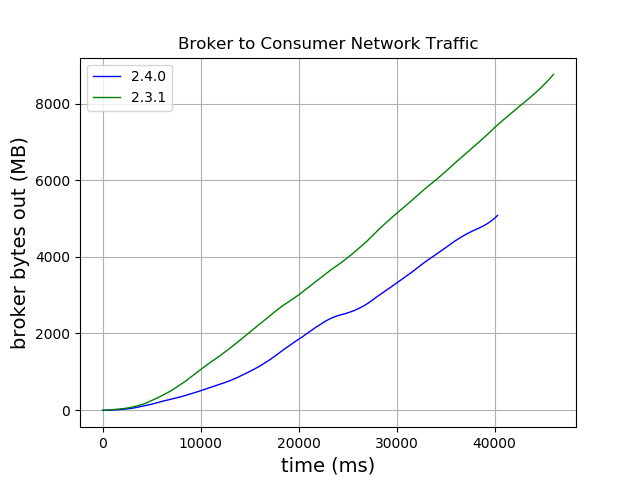
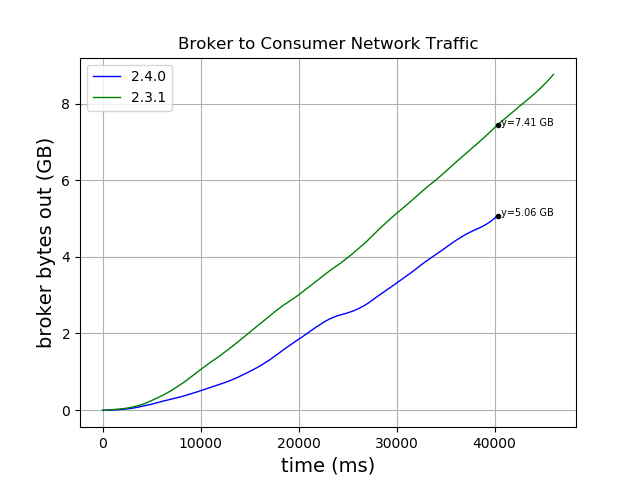
Annotations on charts

diff --git a/charts.py b/charts.py
@@ -1,11 +1,10 @@
 # python API refs
 # --
-# matplotlib.pyplot.plot 	https://matplotlib.org/api/_as_gen/matplotlib.pyplot.plot.html#matplotlib.pyplot.plot
-# pd.read_csv				https://pandas.pydata.org/pandas-docs/stable/reference/api/pandas.read_csv.html?highlight=read_csv#pandas.read_csv
-# pd.Series      			https://pandas.pydata.org/pandas-docs/stable/reference/api/pandas.Series.append.html
-# pd.DataFrame				https://pandas.pydata.org/pandas-docs/stable/reference/frame.html
-
-
+# matplotlib.pyplot.plot 		https://matplotlib.org/api/_as_gen/matplotlib.pyplot.plot.html#matplotlib.pyplot.plot
+# matploglib.pyplot.subplots	https://matplotlib.org/api/_as_gen/matplotlib.pyplot.subplots.html
+# pd.read_csv					https://pandas.pydata.org/pandas-docs/stable/reference/api/pandas.read_csv.html?highlight=read_csv#pandas.read_csv
+# pd.Series      				https://pandas.pydata.org/pandas-docs/stable/reference/api/pandas.Series.append.html
+# pd.DataFrame					https://pandas.pydata.org/pandas-docs/stable/reference/frame.html
 import matplotlib.pyplot as plt
 import pandas as pd
 import numpy as np 
@@ -55,20 +54,31 @@ plt.title('Broker to Consumer Network Traffic')
 
 metric_name = 'broker:kafka.server:type=BrokerTopicMetrics:name=BytesOutPerSec'
 
-y24, y23 = format_series(kafka24[metric_name], kafka23[metric_name])
+y24Raw, y23Raw = (kafka24[metric_name], kafka23[metric_name])
+y24, y23 = format_series(y24Raw, y23Raw)
 
-one_mb = 1000 * 1000
+one_gb = 1000 * 1000 * 1000
 
 # scale bytes to MB
-y24 /= one_mb
-y23 /= one_mb
+y24 /= one_gb
+y23 /= one_gb
 
 # Add x and y lables, and set their font size
 plt.xlabel("time (ms)", fontsize=14)
-plt.ylabel("broker bytes out (MB)", fontsize=14)
+plt.ylabel("broker bytes out (GB)", fontsize=14)
 
 plt.plot(x, y24, **seriesFormatArgs24)
 plt.plot(x, y23, **seriesFormatArgs23)
+
+# Add annotated points for summary
+lastY24Index = len(y24Raw)-1
+xAnnotate, y24Annotate = (x.at[lastY24Index], (y24Raw.at[lastY24Index]/one_gb))
+y23Annotate = y23Raw.at[lastY24Index]/one_gb
+
+plt.annotate(s=" y=" + format(y24Annotate, ".3") + " GB", xy=(xAnnotate, y24Annotate), fontsize=7)
+plt.annotate(s=" y=" + format(y23Annotate, ".3") + " GB", xy=(xAnnotate, y23Annotate), fontsize=7)
+plt.plot(xAnnotate, y24Annotate, marker=".", color="black")
+plt.plot(xAnnotate, y23Annotate+0.03, marker=".", color="black") # fudge y value to be on smoothed line, keep actual annotated value the same
 
 plt.grid()
 plt.legend()
@@ -81,6 +91,7 @@ plt.title('Consumer Record Throughput')
 
 metric_name = 'kafka-consumer:records-consumed-total'
 
+y24Raw, y23Raw = (kafka24[metric_name], kafka23[metric_name])
 y24, y23 = format_series(kafka24[metric_name], kafka23[metric_name])
 
 thousand = 1000
@@ -91,36 +102,20 @@ y23 /= thousand
 
 # Add x and y lables, and set their font size
 plt.xlabel("time (ms)", fontsize=14)
-plt.ylabel("consumed records (x1000)", fontsize=14)
+plt.ylabel("consumed records (1000x)", fontsize=14)
 
 plt.plot(x, y24, **seriesFormatArgs24)
 plt.plot(x, y23, **seriesFormatArgs23)
 
-plt.grid()
-plt.legend()
-plt.savefig("plots/consumer-record-throughput.png")
+# Add annotated points for summary
+lastY24Index = len(y24Raw)-1
+xAnnotate, y24Annotate = (x.at[lastY24Index], (y24Raw.at[lastY24Index]/thousand))
+y23Annotate = y23Raw.at[lastY24Index]/thousand
 
-# Consumer Record Throughput
-
-plt.figure(2)
-plt.title('Consumer Record Throughput')
-
-metric_name = 'kafka-consumer:records-consumed-total'
-
-y24, y23 = format_series(kafka24[metric_name], kafka23[metric_name])
-
-thousand = 1000
-
-# scale thousands of records
-y24 /= thousand
-y23 /= thousand
-
-# Add x and y lables, and set their font size
-plt.xlabel("time (ms)", fontsize=14)
-plt.ylabel("consumed records (x1000)", fontsize=14)
-
-plt.plot(x, y24, **seriesFormatArgs24)
-plt.plot(x, y23, **seriesFormatArgs23)
+plt.annotate(s=" y=" + format(y24Annotate*thousand, ".0f") + " rec", xy=(xAnnotate, y24Annotate), fontsize=7)
+plt.annotate(s=" y=" + format(y23Annotate*thousand, ".0f") + " rec", xy=(xAnnotate, y23Annotate), fontsize=7)
+plt.plot(xAnnotate, y24Annotate-3, marker=".", color="black") # fudge y value to be on smoothed line, keep actual annotated value the same
+plt.plot(xAnnotate, y23Annotate+7, marker=".", color="black") # fudge y value to be on smoothed line, keep actual annotated value the same
 
 plt.grid()
 plt.legend()
@@ -142,6 +137,8 @@ ax_heap.set_title('JVM Heap Memory Usage')
 ax_heap.set_ylabel("bytes used (MB)", fontsize=14)
 
 y24, y23 = format_series(kafka24[metric_jvm_heap_bytes], kafka23[metric_jvm_heap_bytes])
+
+one_mb = 1000 * 1000
 
 # scale bytes to MB
 y24 /= one_mb
@@ -199,10 +196,21 @@ ax_fetch_total.set_title('Fetch Requests')
 ax_fetch_total.set_ylabel("fetch requests", fontsize=14)
 ax_fetch_total.set_xlabel('time (ms)', fontsize=14)
 
-y24, y23 = format_series(kafka24[metric_fetch_total], kafka23[metric_fetch_total])
+y24Raw, y23Raw = (kafka24[metric_fetch_total], kafka23[metric_fetch_total])
+y24, y23 = format_series(y24Raw, y23Raw)
 
 ax_fetch_total.plot(x, y24, **seriesFormatArgs24)
 ax_fetch_total.plot(x, y23, **seriesFormatArgs23)
+
+# Add annotated points for summary
+lastY24Index = len(y24Raw)-1
+xAnnotate, y24Annotate = (x.at[lastY24Index], (y24Raw.at[lastY24Index]))
+y23Annotate = y23Raw.at[lastY24Index]
+
+ax_fetch_total.annotate(s=" y=" + format(y24Annotate, ".0f") + " req", xy=(xAnnotate, y24Annotate), fontsize=7)
+ax_fetch_total.annotate(s=" y=" + format(y23Annotate, ".0f") + " req", xy=(xAnnotate, y23Annotate), fontsize=7)
+ax_fetch_total.plot(xAnnotate, y24Annotate, marker=".", color="black") # fudge y value to be on smoothed line, keep actual annotated value the same
+ax_fetch_total.plot(xAnnotate, y23Annotate, marker=".", color="black") # fudge y value to be on smoothed line, keep actual annotated value the same
 
 ax_fetch_total.grid()
 ax_fetch_total.legend()
@@ -215,19 +223,19 @@ ax_records_per_fetch_avg.set_xlabel('time (ms)', fontsize=14)
 
 # first n records are NaN
 # remove first NaN records, format the axis, then re-add NaN when plotting
-y24 = kafka24[metric_records_per_fetch_avg]
+y24Raw = kafka24[metric_records_per_fetch_avg]
 
-total_size = len(y24)
-non_nan_size = y24.count()
-y24_head = y24.head(total_size-non_nan_size)
-y24 = y24.tail(non_nan_size)
+total_size = len(y24Raw)
+non_nan_size = y24Raw.count()
+y24_head = y24Raw.head(total_size-non_nan_size)
+y24 = y24Raw.tail(non_nan_size)
 
-y23 = kafka23[metric_records_per_fetch_avg]
+y23Raw = kafka23[metric_records_per_fetch_avg]
 
-total_size = len(y23)
-non_nan_size = y23.count()
-y23_head = y23.head(total_size-non_nan_size)
-y23 = y23.tail(non_nan_size)
+total_size = len(y23Raw)
+non_nan_size = y23Raw.count()
+y23_head = y23Raw.head(total_size-non_nan_size)
+y23 = y23Raw.tail(non_nan_size)
 
 y24, y23 = format_series(y24, y23)
 
@@ -239,6 +247,16 @@ y24 = y24.head(len(y24)-(len(y24)-len(y23)))
 
 ax_records_per_fetch_avg.plot(x, y24, **seriesFormatArgs24)
 ax_records_per_fetch_avg.plot(x, y23, **seriesFormatArgs23)
+
+# Add annotated points for summary
+lastY24Index = len(y24Raw)-1
+xAnnotate, y24Annotate = (x.at[lastY24Index], (y24Raw.at[lastY24Index]))
+y23Annotate = y23Raw.at[lastY24Index]
+
+ax_records_per_fetch_avg.annotate(s=" y=" + format(y24Annotate, ".0f") + " rec", xy=(xAnnotate, y24Annotate), fontsize=7)
+ax_records_per_fetch_avg.annotate(s=" y=" + format(y23Annotate, ".0f") + " rec", xy=(xAnnotate, y23Annotate), fontsize=7)
+ax_records_per_fetch_avg.plot(xAnnotate, y24Annotate, marker=".", color="black") # fudge y value to be on smoothed line, keep actual annotated value the same
+ax_records_per_fetch_avg.plot(xAnnotate, y23Annotate, marker=".", color="black") # fudge y value to be on smoothed line, keep actual annotated value the same
 
 ax_records_per_fetch_avg.grid()
 ax_records_per_fetch_avg.legend()

diff --git a/diagrams/GIF_README.md b/diagrams/GIF_README.md
@@ -1,0 +1,5 @@
+1. Create animation in Google slides
+2. Record MP4 using peek: https://github.com/phw/peek/
+  * Turn on 30 fps
+3. Convert MP4 to GIF using ezgif: https://ezgif.com/video-to-gif/
+  * Settings for best quality: AUTOx480 resolution
